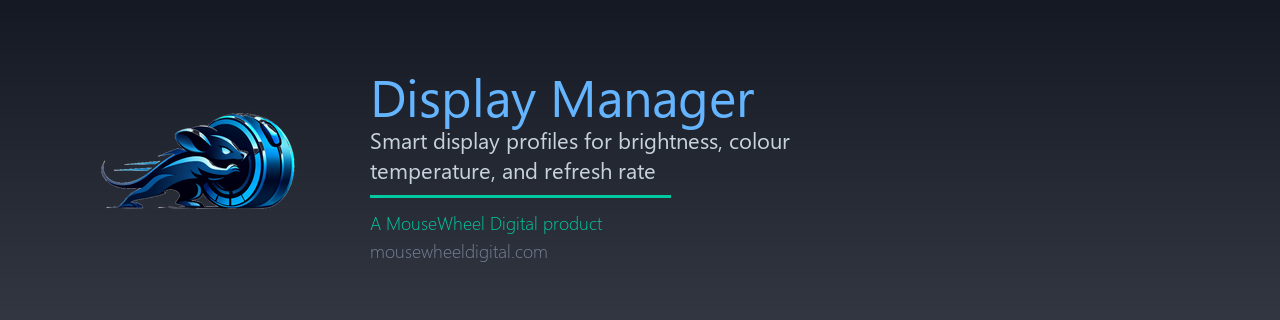
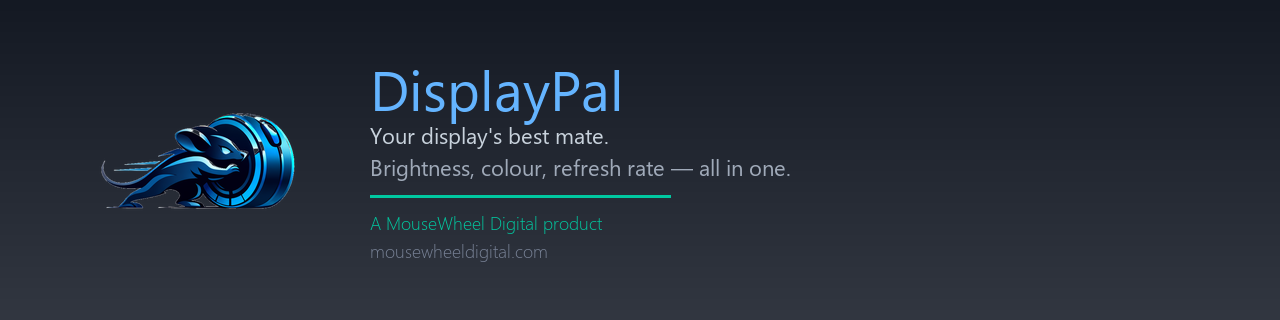
Rebrand to DisplayPal — v1.2.0
"Display Manager" is boring and generic. Rebranding to DisplayPal to
match the MouseWheel Digital family naming (alongside AIClocker) and
give the product a memorable, searchable identity.

Scope:
- All user-visible strings updated across tray, settings, first-run
  dialog, update notifications, and translations
- Config directory moves from %APPDATA%\DisplayManager to
  %APPDATA%\DisplayPal, with one-time automatic migration preserving
  existing profiles, schedules, and stats
- Autostart registry key renamed from "DisplayManager" to "DisplayPal"
  with legacy cleanup on every sync
- Installer renamed, app folder renamed, exe renamed to DisplayPal.exe
- Installer AppId intentionally kept so existing DisplayManager
  installs upgrade cleanly to DisplayPal
- Installer no longer writes HKCU/userappdata directly (admin-mode
  writes would target the wrong user); the app handles autostart via
  sync_autostart on every launch
- Banner regenerated with DisplayPal branding and new tagline
- README rewritten with new tagline: "Your display's best mate."
- updater.py GITHUB_REPO updated to MorlachAU/DisplayPal
- Version bumped to 1.2.0

Changed region(s): [[0.2812, 0.2188, 0.625, 0.4688], [0.2812, 0.5, 0.625, 0.5625]]

diff --git a/ui/settings_window.py b/ui/settings_window.py
@@ -1,5 +1,5 @@
 """
-Display Manager — Settings Window
+DisplayPal — Settings Window
 customtkinter tabbed settings UI.
 """
 
@@ -25,7 +25,7 @@ class SettingsWindow:
         ctk.set_default_color_theme("blue")
         self._root = ctk.CTk()
         self._root.withdraw()
-        self._root.title("Display Manager")
+        self._root.title("DisplayPal")
         return self._root
 
     def show(self):
@@ -44,12 +44,12 @@ class SettingsWindow:
                 logo = logo.resize((32, 32), Image.LANCZOS)
                 self._header_logo_img = ImageTk.PhotoImage(logo)
                 ctk.CTkLabel(parent, image=self._header_logo_img, text="").pack(side="left", padx=(5, 8))
-            ctk.CTkLabel(parent, text="Display Manager",
+            ctk.CTkLabel(parent, text="DisplayPal",
                           font=ctk.CTkFont(size=16, weight="bold")).pack(side="left")
             ctk.CTkLabel(parent, text="by MouseWheel Digital",
                           text_color="gray", font=ctk.CTkFont(size=11)).pack(side="left", padx=(8, 0))
         except Exception:
-            ctk.CTkLabel(parent, text="Display Manager",
+            ctk.CTkLabel(parent, text="DisplayPal",
                           font=ctk.CTkFont(size=16, weight="bold")).pack(side="left", padx=5)
 
     def _create_or_focus(self):
@@ -63,7 +63,7 @@ class SettingsWindow:
     def _create_window(self):
         """Build the settings window."""
         self._window = ctk.CTkToplevel(self._root)
-        self._window.title("Display Manager — Settings")
+        self._window.title("DisplayPal — Settings")
         self._window.geometry("580x650")
         self._window.resizable(False, False)
         self._window.attributes("-topmost", True)
@@ -726,7 +726,7 @@ class SettingsWindow:
                        command=self._refresh_status).pack(padx=10, pady=3, anchor="w")
 
         # Version
-        ctk.CTkLabel(tab, text="v1.1 — see About tab for more",
+        ctk.CTkLabel(tab, text="v1.2.0 — see About tab for more",
                       text_color="gray", font=ctk.CTkFont(size=11)).pack(padx=15, pady=(3, 0), anchor="w")
 
     def _open_donate(self):
@@ -858,9 +858,9 @@ class SettingsWindow:
             pass
 
         # App name and version
-        ctk.CTkLabel(tab, text="Display Manager",
+        ctk.CTkLabel(tab, text="DisplayPal",
                       font=ctk.CTkFont(size=22, weight="bold")).pack(pady=(5, 0))
-        ctk.CTkLabel(tab, text="Version 1.1",
+        ctk.CTkLabel(tab, text="Version 1.2.0",
                       text_color="gray", font=ctk.CTkFont(size=13)).pack(pady=(0, 5))
 
         # Branding
@@ -895,10 +895,10 @@ class SettingsWindow:
                        command=self._copy_feedback_email).pack(side="left", padx=8)
 
         # GitHub
-        ctk.CTkButton(tab, text="GitHub: MorlachAU/DisplayManager", width=240,
+        ctk.CTkButton(tab, text="GitHub: MorlachAU/DisplayPal", width=240,
                        fg_color="transparent", border_width=1, border_color="gray",
                        command=lambda: __import__("webbrowser").open(
-                           "https://github.com/MorlachAU/DisplayManager")).pack(pady=(10, 5))
+                           "https://github.com/MorlachAU/DisplayPal")).pack(pady=(10, 5))
 
         # Credits
         ctk.CTkLabel(tab, text="Built with the assistance of Claude Code by Anthropic",

diff --git a/main.py b/main.py
@@ -1,5 +1,5 @@
 """
-Display Manager — Main Entry Point
+DisplayPal — Main Entry Point
 Orchestrates all threads: tray, hotkeys, scheduler, watchdog, UI.
 """
 
@@ -147,7 +147,7 @@ def _show_update_notification(root, tray, version, url):
     try:
         tray._icon.notify(
             f"Version {version} is available",
-            "Display Manager Update"
+            "DisplayPal Update"
         )
     except Exception:
         pass
@@ -162,7 +162,7 @@ def _show_update_notification(root, tray, version, url):
     ctk.CTkLabel(dialog, text="Update Available",
                   font=ctk.CTkFont(size=16, weight="bold")).pack(pady=(15, 5))
     from updater import CURRENT_VERSION
-    ctk.CTkLabel(dialog, text=f"Display Manager {version} is available.\nYou are running v{CURRENT_VERSION}.",
+    ctk.CTkLabel(dialog, text=f"DisplayPal {version} is available.\nYou are running v{CURRENT_VERSION}.",
                   text_color="gray").pack(pady=(0, 10))
 
     btnf = ctk.CTkFrame(dialog, fg_color="transparent")
@@ -179,7 +179,7 @@ def _first_run_dialog(root, config):
     import customtkinter as ctk
 
     dialog = ctk.CTkToplevel(root)
-    dialog.title("Display Manager — Welcome")
+    dialog.title("DisplayPal — Welcome")
     dialog.geometry("460x440")
     dialog.resizable(False, False)
     dialog.attributes("-topmost", True)
@@ -199,7 +199,7 @@ def _first_run_dialog(root, config):
         pass
     title_frame = ctk.CTkFrame(header, fg_color="transparent")
     title_frame.pack(side="left")
-    ctk.CTkLabel(title_frame, text="Display Manager",
+    ctk.CTkLabel(title_frame, text="DisplayPal",
                   font=ctk.CTkFont(size=18, weight="bold")).pack(anchor="w")
     ctk.CTkLabel(title_frame, text="by MouseWheel Digital",
                   text_color="gray", font=ctk.CTkFont(size=12)).pack(anchor="w")
@@ -240,7 +240,7 @@ def _first_run_dialog(root, config):
 
     if flux_running:
         checks.append(("f.lux", "Running — please close f.lux to avoid conflicts.\n"
-                        "Display Manager replaces f.lux for colour temperature.", "orange"))
+                        "DisplayPal replaces f.lux for colour temperature.", "orange"))
     else:
         checks.append(("f.lux", "Not running (good)", "green"))
 

diff --git a/tray.py b/tray.py
@@ -1,5 +1,5 @@
 """
-Display Manager — System Tray
+DisplayPal — System Tray
 pystray-based tray icon with profile switching menu and per-profile colours.
 """
 
@@ -180,7 +180,7 @@ class TrayApp:
         new_value = display.nudge_brightness(delta)
         if new_value is not None and self._icon:
             active = self.pm.get_active()
-            self._icon.title = f"Display Manager - {active} | Brightness {new_value}%"
+            self._icon.title = f"DisplayPal - {active} | Brightness {new_value}%"
             try:
                 self._icon.update_menu()
             except Exception:
@@ -192,7 +192,7 @@ class TrayApp:
         new_value = display.nudge_colour_temperature(delta)
         if new_value is not None and self._icon:
             active = self.pm.get_active()
-            self._icon.title = f"Display Manager - {active} | {new_value}K"
+            self._icon.title = f"DisplayPal - {active} | {new_value}K"
             try:
                 self._icon.update_menu()
             except Exception:
@@ -244,7 +244,7 @@ class TrayApp:
         """Start the tray icon in a daemon thread."""
         active = self.pm.get_active()
         self._icon = pystray.Icon(
-            "DisplayManager",
+            "DisplayPal",
             self._get_icon_for_profile(active),
             title=self._build_title(active),
             menu=pystray.Menu(lambda: self._build_menu_items()),
@@ -262,7 +262,7 @@ class TrayApp:
 
     def _build_title(self, profile_name):
         locked = " [LOCKED]" if self.pm.is_locked() else ""
-        return f"Display Manager - {profile_name}{locked}"
+        return f"DisplayPal - {profile_name}{locked}"
 
     def update_tooltip(self, profile_name):
         """Update tray tooltip, icon, and force menu refresh when profile changes."""
@@ -279,7 +279,7 @@ class TrayApp:
                 try:
                     self._icon.notify(
                         f"Switched to {profile_name}",
-                        "Display Manager"
+                        "DisplayPal"
                     )
                 except Exception:
                     pass

diff --git a/config.py b/config.py
@@ -1,5 +1,5 @@
 """
-Display Manager — Configuration
+DisplayPal — Configuration
 Thread-safe JSON config with defaults and deep-merge on load.
 """
 
@@ -48,12 +48,22 @@ DEFAULTS = {
 
 
 def _get_config_dir():
-    """Get the config directory — uses AppData on Windows for proper permissions."""
+    """Get the config directory — uses AppData on Windows for proper permissions.
+    Migrates from legacy DisplayManager folder if present."""
     import os
+    import shutil
     appdata = os.environ.get("APPDATA")
     if appdata:
-        config_dir = Path(appdata) / "DisplayManager"
-        config_dir.mkdir(parents=True, exist_ok=True)
+        config_dir = Path(appdata) / "DisplayPal"
+        legacy_dir = Path(appdata) / "DisplayManager"
+        # One-time migration from DisplayManager -> DisplayPal
+        if legacy_dir.exists() and not config_dir.exists():
+            try:
+                shutil.copytree(legacy_dir, config_dir)
+            except Exception:
+                config_dir.mkdir(parents=True, exist_ok=True)
+        else:
+            config_dir.mkdir(parents=True, exist_ok=True)
         return config_dir
     # Fallback: next to the script/exe
     return Path(__file__).parent

diff --git a/autostart.py b/autostart.py
@@ -1,5 +1,5 @@
 """
-Display Manager — Windows Auto-Start
+DisplayPal — Windows Auto-Start
 Manages the registry Run key for starting with Windows.
 """
 
@@ -7,7 +7,8 @@ import sys
 import winreg
 from pathlib import Path
 
-APP_NAME = "DisplayManager"
+APP_NAME = "DisplayPal"
+LEGACY_APP_NAME = "DisplayManager"
 RUN_KEY = r"Software\Microsoft\Windows\CurrentVersion\Run"
 
 
@@ -62,8 +63,22 @@ def disable_autostart():
         return False
 
 
+def _cleanup_legacy():
+    """Remove the legacy DisplayManager autostart entry if present."""
+    try:
+        key = winreg.OpenKey(winreg.HKEY_CURRENT_USER, RUN_KEY, 0, winreg.KEY_SET_VALUE)
+        try:
+            winreg.DeleteValue(key, LEGACY_APP_NAME)
+        except FileNotFoundError:
+            pass
+        winreg.CloseKey(key)
+    except OSError:
+        pass
+
+
 def sync_autostart(config):
-    """Sync registry state with config setting."""
+    """Sync registry state with config setting. Also removes legacy entry."""
+    _cleanup_legacy()
     should_autostart = config.get("auto_start", False)
     if should_autostart:
         enable_autostart()

diff --git a/updater.py b/updater.py
@@ -1,5 +1,5 @@
 """
-Display Manager — Update Checker
+DisplayPal — Update Checker
 Checks GitHub releases for new versions on startup.
 """
 
@@ -7,8 +7,8 @@ import threading
 import urllib.request
 import json
 
-CURRENT_VERSION = "1.1"
-GITHUB_REPO = "MorlachAU/DisplayManager"
+CURRENT_VERSION = "1.2.0"
+GITHUB_REPO = "MorlachAU/DisplayPal"
 RELEASES_URL = f"https://api.github.com/repos/{GITHUB_REPO}/releases/latest"
 
 
@@ -29,7 +29,7 @@ def check_for_update(callback):
         try:
             req = urllib.request.Request(
                 RELEASES_URL,
-                headers={"User-Agent": "DisplayManager-UpdateCheck"}
+                headers={"User-Agent": "DisplayPal-UpdateCheck"}
             )
             response = urllib.request.urlopen(req, timeout=10)
             data = json.loads(response.read().decode())

diff --git a/appdetect.py b/appdetect.py
@@ -1,5 +1,5 @@
 """
-Display Manager — App-Aware Detection Engine
+DisplayPal — App-Aware Detection Engine
 Detects running games and mapped applications to auto-switch profiles.
 
 Detection layers (GPU-vendor independent):

diff --git a/assets/create_icon.py b/assets/create_icon.py
@@ -1,4 +1,4 @@
-"""Generate a simple tray icon for Display Manager."""
+"""Generate a simple tray icon for DisplayPal."""
 from PIL import Image, ImageDraw, ImageFont
 
 def create_icon(size=256):

diff --git a/display.py b/display.py
@@ -1,5 +1,5 @@
 """
-Display Manager — Hardware Control
+DisplayPal — Hardware Control
 DDC/CI brightness via monitorcontrol + colour temperature via gamma ramp.
 """
 

diff --git a/hotkeys.py b/hotkeys.py
@@ -1,5 +1,5 @@
 """
-Display Manager — Global Hotkeys
+DisplayPal — Global Hotkeys
 Registers configurable hotkeys for profile switching, quick dim, and lock.
 """
 

diff --git a/scheduler.py b/scheduler.py
@@ -1,5 +1,5 @@
 """
-Display Manager — Time-Based Scheduler
+DisplayPal — Time-Based Scheduler
 Switches profiles based on fixed times or sunrise/sunset.
 """
 

diff --git a/profiles.py b/profiles.py
@@ -1,5 +1,5 @@
 """
-Display Manager — Profile Management
+DisplayPal — Profile Management
 Switches between named profiles, applying display settings.
 """
 
